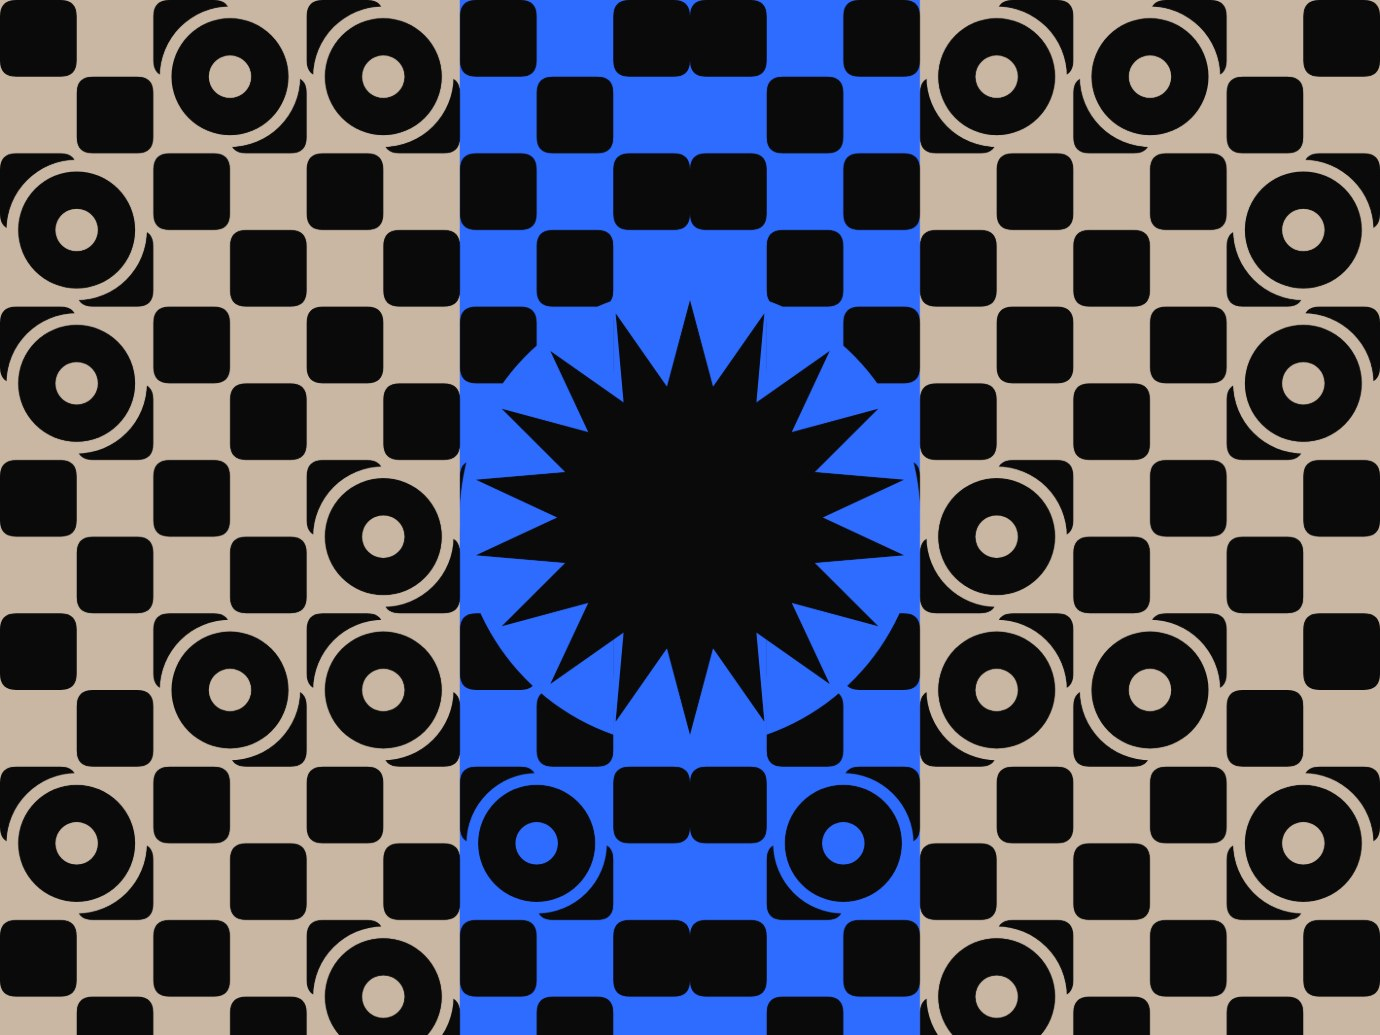
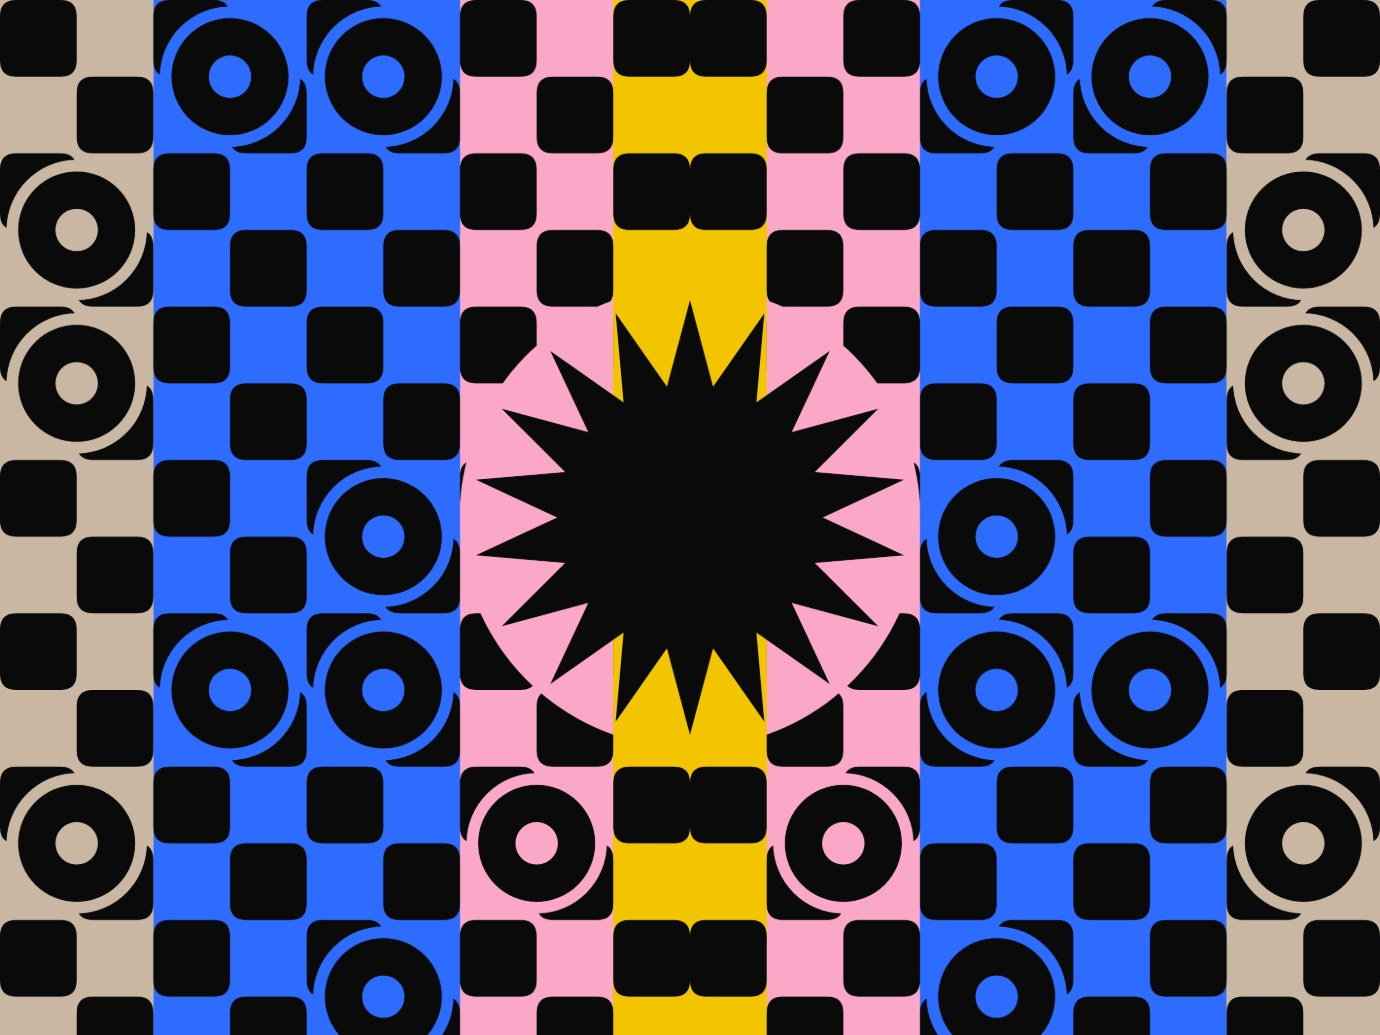
Emblem: seven panels by default
The reference is a wide banner of many narrow bands, and three panels
only reads as one centre stripe. Seven puts every ground colour on the
page and gives the emblem a band of its own to sit in.

Panel bands are now snapped to whole pixels from both edges instead of
being padded a pixel wider. The padding made each band bleed rightward
over its neighbour — invisible with one colour edge, and a measurable
break in the left/right symmetry with six of them. Mirror disagreement
drops from 0.67% of pixels to 0.04%.

Card art regenerated to match the new default.

Claude-Session: https://claude.ai/code/session_01Hb5jk9z6h4o1AzZNFzskh6

diff --git a/emblem/index.html b/emblem/index.html
@@ -394,7 +394,7 @@ input[type=range]{accent-color:var(--ink)}
       <a class="lnk back" href="../index.html">&larr; All tools</a>
     </div>
     <div class="l-scroll"><details class="grp" open><summary>Field</summary><div class="grp-b"><div class="pr"><div class="top"><span class="k">Columns</span><span class="v" id="gridVal">9</span></div><div class="track"><input type="range" id="grid" min="3" max="24" step="1" value="9"></div></div>
-        <div class="pr"><div class="top"><span class="k">Panels</span><span class="v" id="panelsVal">3</span></div><div class="track"><input type="range" id="panels" min="1" max="7" step="1" value="3"></div></div>
+        <div class="pr"><div class="top"><span class="k">Panels</span><span class="v" id="panelsVal">7</span></div><div class="track"><input type="range" id="panels" min="1" max="7" step="1" value="7"></div></div>
         <div class="pr"><div class="top"><span class="k">Rounding</span><span class="v" id="cornerVal">42%</span></div><div class="track"><input type="range" id="corner" min="0" max="1" step="0.01" value="0.42"></div></div></div></details>
     <details class="grp"><summary>Rings</summary><div class="grp-b"><div class="pr"><div class="top"><span class="k">How many</span><span class="v" id="ringsVal">42%</span></div><div class="track"><input type="range" id="rings" min="0" max="1" step="0.01" value="0.42"></div></div>
         <div class="pr"><div class="top"><span class="k">Ring size</span><span class="v" id="radiusVal">34%</span></div><div class="track"><input type="range" id="radius" min="0" max="1" step="0.01" value="0.34"></div></div>
@@ -505,7 +505,7 @@ const EMBLEMS=[["burst","Burst"],["ring","Ring"],["cross","Cross"],["rosette","R
 
 const S={
   seed:29, ratio:"3:2",
-  grid:9, panels:3, corner:0.42,
+  grid:9, panels:7, corner:0.42,
   rings:0.42, radius:0.34, hole:0.42, points:18, spike:0.42,
   emblem:0.55,
   pal:PALETTES[0].slice(),
@@ -617,9 +617,14 @@ function paint(c,W,H,f){
   };
   const groundOf=i=>R.grounds[panelOf(i)%R.grounds.length];
 
+  /* Snapped to whole pixels from both edges, so neighbouring bands abut
+     exactly. Padding each band a pixel wider instead makes every one of them
+     bleed rightward over its neighbour, which is invisible on a single band
+     and an obvious break in the symmetry once there are six colour edges. */
   for(let i=0;i<cols;i++){
+    const x0=Math.round(i*cell), x1=Math.round((i+1)*cell);
     c.fillStyle=groundOf(i);
-    c.fillRect(Math.floor(i*cell),0,Math.ceil(cell)+1,H);
+    c.fillRect(x0,0,x1-x0,H);
   }
 
   /* ---- the check field ------------------------------------------------
